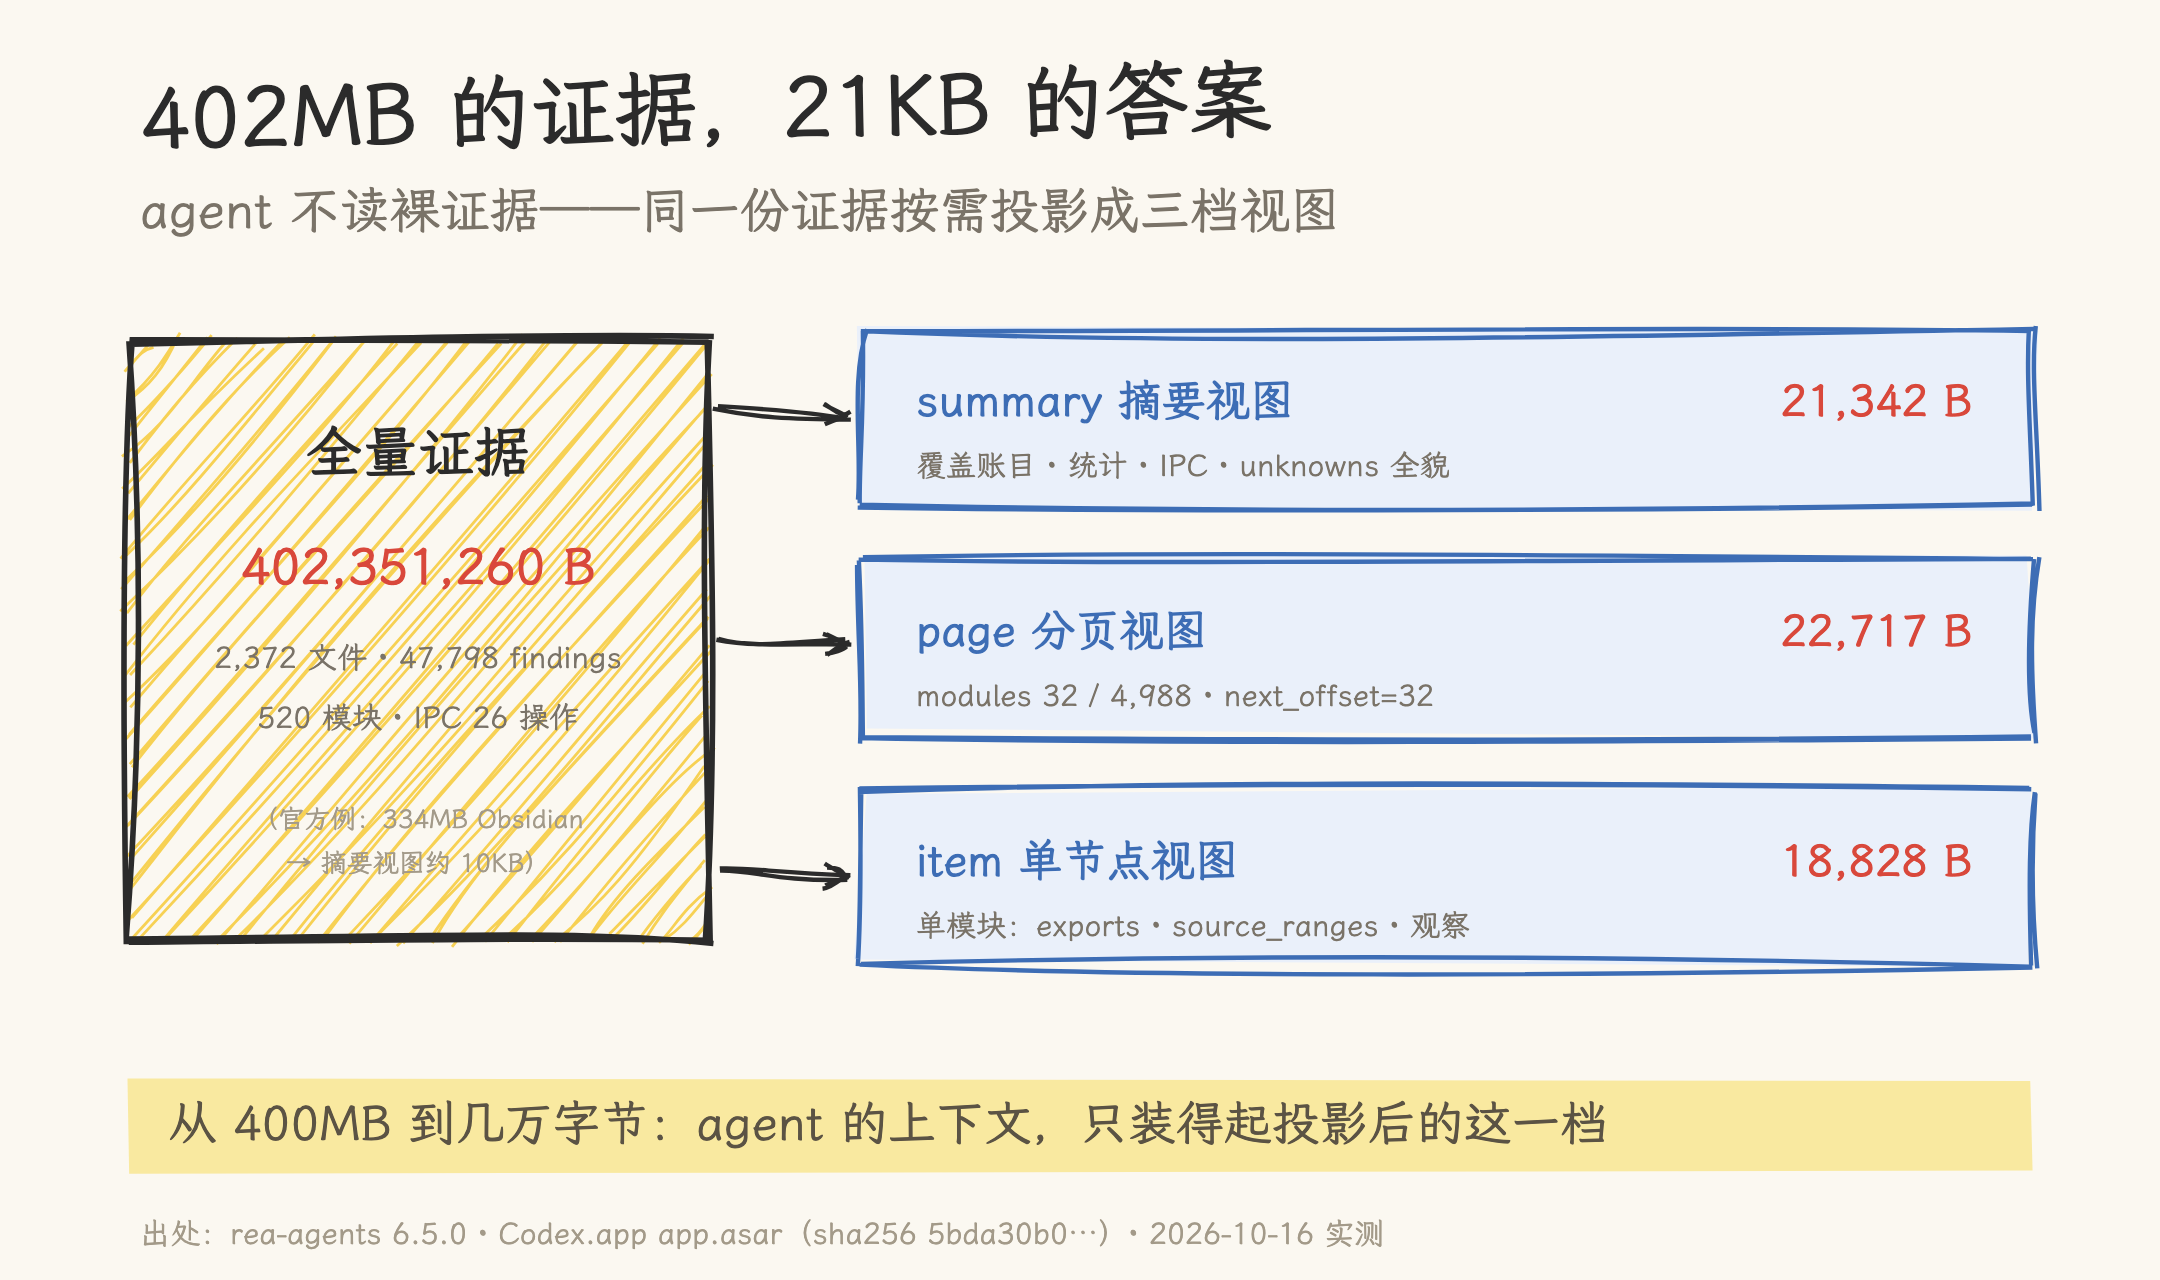
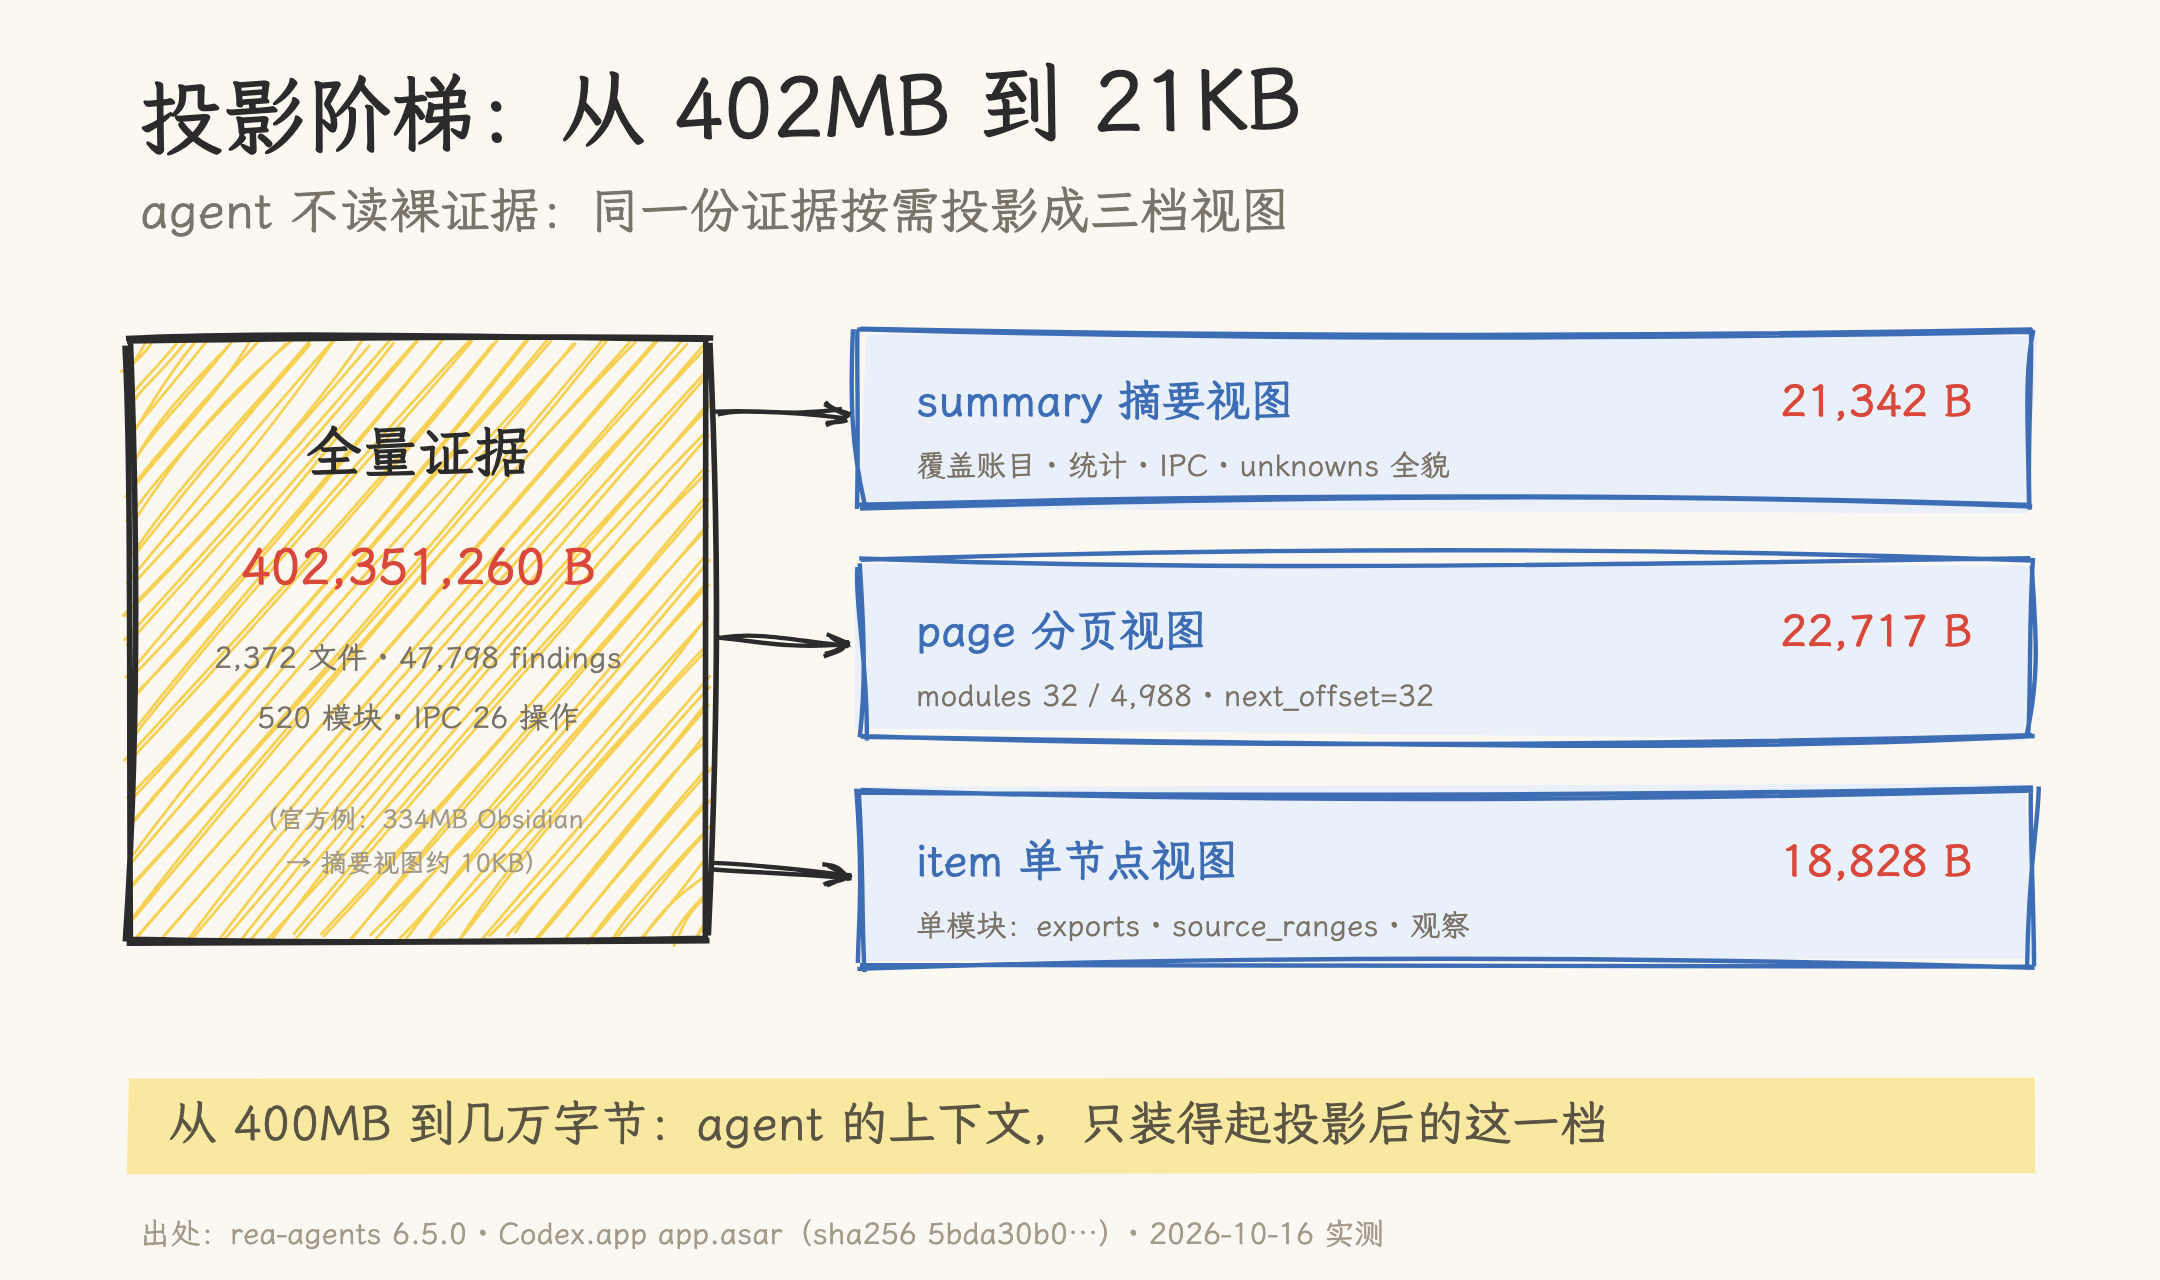
docs(mcp): REA 实战文章标题改版（用 agent 逆向一个 agent）
- 标题改为「用 agent 逆向一个 agent：REA 拆解 Codex.app 实战」，替换数字对照式旧题；
  402MB / 21KB 数字在正文与图内保留（有上下文，非钩子）
- 图 3 重制：内标题改为「投影阶梯：从 402MB 到 21KB」，副标题改冒号式
- 同步 references 日志、assets 说明、08 README 与顶层 README 的收录文字

diff --git a/08_agentic_system/README.md b/08_agentic_system/README.md
@@ -79,7 +79,7 @@
 Agent 的能力边界很大程度上由它能调用哪些工具决定。以 MCP 为代表的跨平台协议、以 Claude Skills 为代表的工具封装规范，正在把分散的集成方式统一成可互操作的标准。
 
 - [深度解析 MCP 与 AI 工具化的未来](./mcp/docs/01_deep_dive_into_mcp_and_the_future_of_ai_tooling.md) - Anthropic 推出的 Model Context Protocol (MCP) 原理与实战，探讨 AI 工具链的未来。
-- [402MB 的证据、21KB 的答案：REA 拆解 Codex.app 实战](./mcp/docs/02_reverse_engineer_anything_in_practice.md) - 27 万 star 的逆向工程 MCP（REA）本机实测：用 ollama 与 Codex.app 三层目标走通 fail-closed 三道闸门、预算对照实验与视图投影阶梯，提炼可迁移的六条 agent 工具设计纪律。配三张手绘图。
+- [用 agent 逆向一个 agent：REA 拆解 Codex.app 实战](./mcp/docs/02_reverse_engineer_anything_in_practice.md) - 27 万 star 的逆向工程 MCP（REA）本机实测：用 ollama 与 Codex.app 三层目标走通 fail-closed 三道闸门、预算对照实验与视图投影阶梯，提炼可迁移的六条 agent 工具设计纪律。配三张手绘图。
 - [给 Claude 写本“标准操作手册”：Agent Skills 实战与深度解析](./agent_skills/docs/claude_skills_guide.md) - 扩展智能体能力的工具定义规范、调试方法与最佳实践。
 - [Claude Skills 构建完整指南 (PDF)](./agent_skills/docs/the_complete_guide_to_building_skill_for_claude.pdf) - 官方提供的高阶指导手册，详细说明如何为 Claude 扩展自定义技能。
 

diff --git a/08_agentic_system/mcp/docs/references/01-rea-practice-log.md b/08_agentic_system/mcp/docs/references/01-rea-practice-log.md
@@ -1,6 +1,6 @@
 # REA 实践日志（文章事实底稿）
 
-《[402MB 的证据、21KB 的答案：REA 拆解 Codex.app 实战](../02_reverse_engineer_anything_in_practice.md)》的原始记录。2026-10-16 于 macOS arm64（Darwin 25.6.0，16GB 内存，Node 26.11.1，npm 11.20.0）实测，工具为 `rea-agents` 6.5.0（当日经 npx 安装）。原始输出（303MB / 402MB 证据文件、3.9MB 清单等）留存在本机工作目录，未入库。
+《[用 agent 逆向一个 agent：REA 拆解 Codex.app 实战](../02_reverse_engineer_anything_in_practice.md)》的原始记录。2026-10-16 于 macOS arm64（Darwin 25.6.0，16GB 内存，Node 26.11.1，npm 11.20.0）实测，工具为 `rea-agents` 6.5.0（当日经 npx 安装）。原始输出（303MB / 402MB 证据文件、3.9MB 清单等）留存在本机工作目录，未入库。
 
 ## 0. 环境与就绪检查
 

diff --git a/README.md b/README.md
@@ -613,7 +613,7 @@ DeepSeek 模型极致性能优化实战，深度解析 vLLM 宽端点 (Wide Endp
 **工具及协议**：
 
 - [Model Context Protocol (MCP)](08_agentic_system/mcp/docs/01_deep_dive_into_mcp_and_the_future_of_ai_tooling.md) - MCP 原理与实战，探讨 AI 工具链的未来
-  - [REA 逆向工程 MCP 实战](08_agentic_system/mcp/docs/02_reverse_engineer_anything_in_practice.md) - 27 万 star 的逆向工程 MCP 本机实测：fail-closed 三道闸门、预算对照实验与视图投影阶梯，附手绘图
+  - [用 agent 逆向一个 agent：REA 拆解 Codex.app 实战](08_agentic_system/mcp/docs/02_reverse_engineer_anything_in_practice.md) - 27 万 star 的逆向工程 MCP 本机实测：fail-closed 三道闸门、预算对照实验与视图投影阶梯，附手绘图
 
 **Agent Skill**：
 

diff --git a/08_agentic_system/mcp/docs/assets/README.md b/08_agentic_system/mcp/docs/assets/README.md
@@ -1,6 +1,6 @@
 # assets
 
-本目录存放《[402MB 的证据、21KB 的答案：REA 拆解 Codex.app 实战](../02_reverse_engineer_anything_in_practice.md)》的配图。
+本目录存放《[用 agent 逆向一个 agent：REA 拆解 Codex.app 实战](../02_reverse_engineer_anything_in_practice.md)》的配图。
 
 - 三张手绘图（`rea-01` … `rea-03`），rough.js + 霞鹜文楷程序化生成，1080 逻辑宽 2x 渲染 PNG，可直接用于公众号正文
 - 图中全部数字来自 2026-10-16 本机实测（rea-agents 6.5.0 / Codex.app 26.611.62324），出处见各图脚注；原始输出记录见 [references/01-rea-practice-log.md](../references/01-rea-practice-log.md)

diff --git a/08_agentic_system/mcp/docs/02_reverse_engineer_anything_in_practice.md b/08_agentic_system/mcp/docs/02_reverse_engineer_anything_in_practice.md
@@ -1,4 +1,4 @@
-# 402MB 的证据、21KB 的答案：REA 拆解 Codex.app 实战
+# 用 agent 逆向一个 agent：REA 拆解 Codex.app 实战
 
 > 2026-10-16 | 实践记录。基于 `rea-agents` 6.5.0（npm，当日经 npx 安装）在 macOS arm64（Node 26.11.1，16GB 内存）上的本机实测；分析目标为 ollama 0.40.3 与 Codex.app 26.611.62324（app.asar sha256 `5bda30b0…`）。星标、fork 数为 2026-10-16 GitHub API 快照。文中全部数字与错误原文来自本机原始输出；未实测的能力（Ghidra 深反编译、MCP 注册路径等）在第九节明确标注。
 
